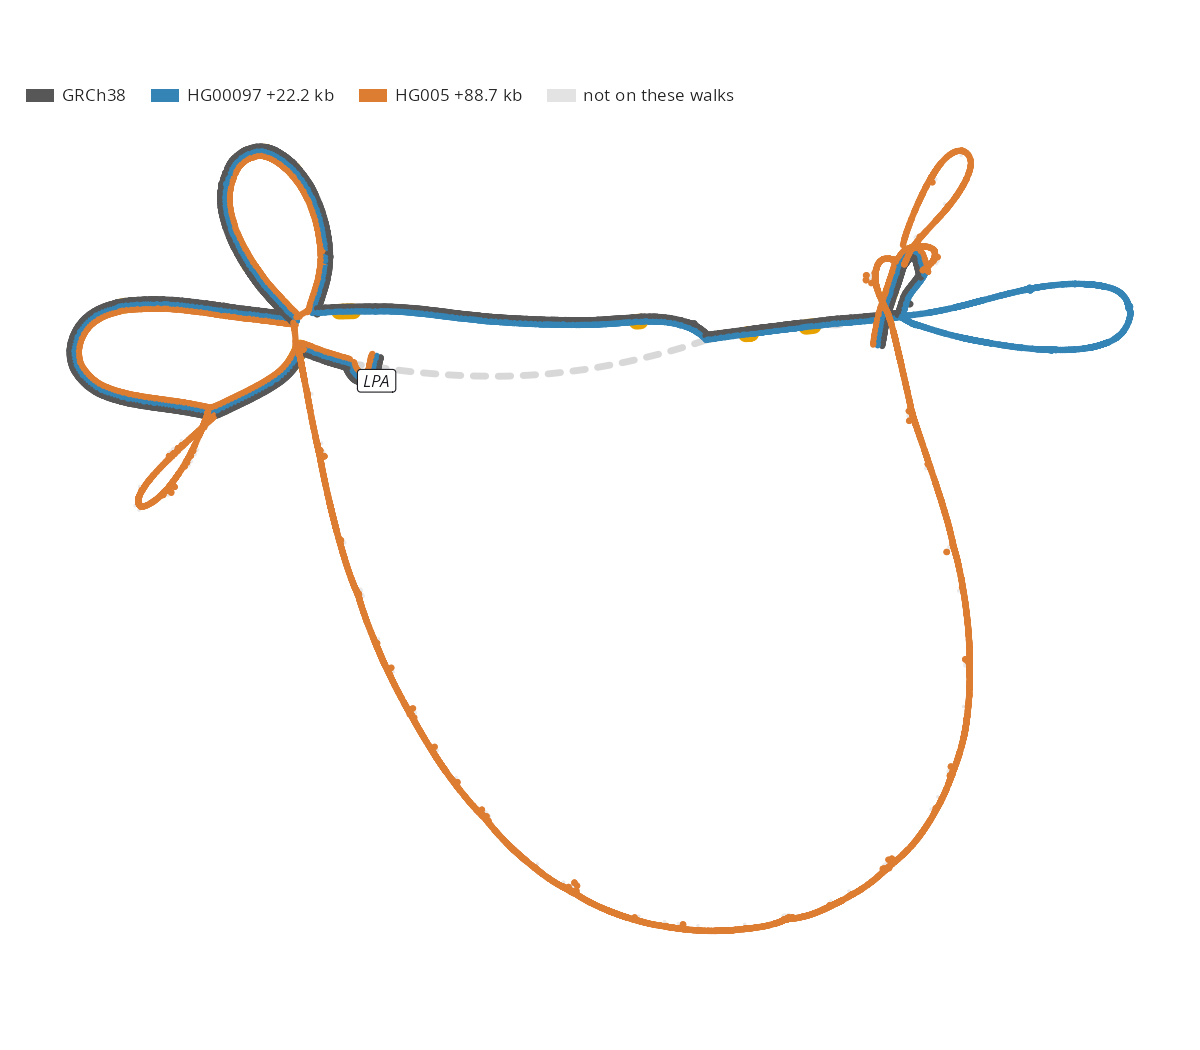
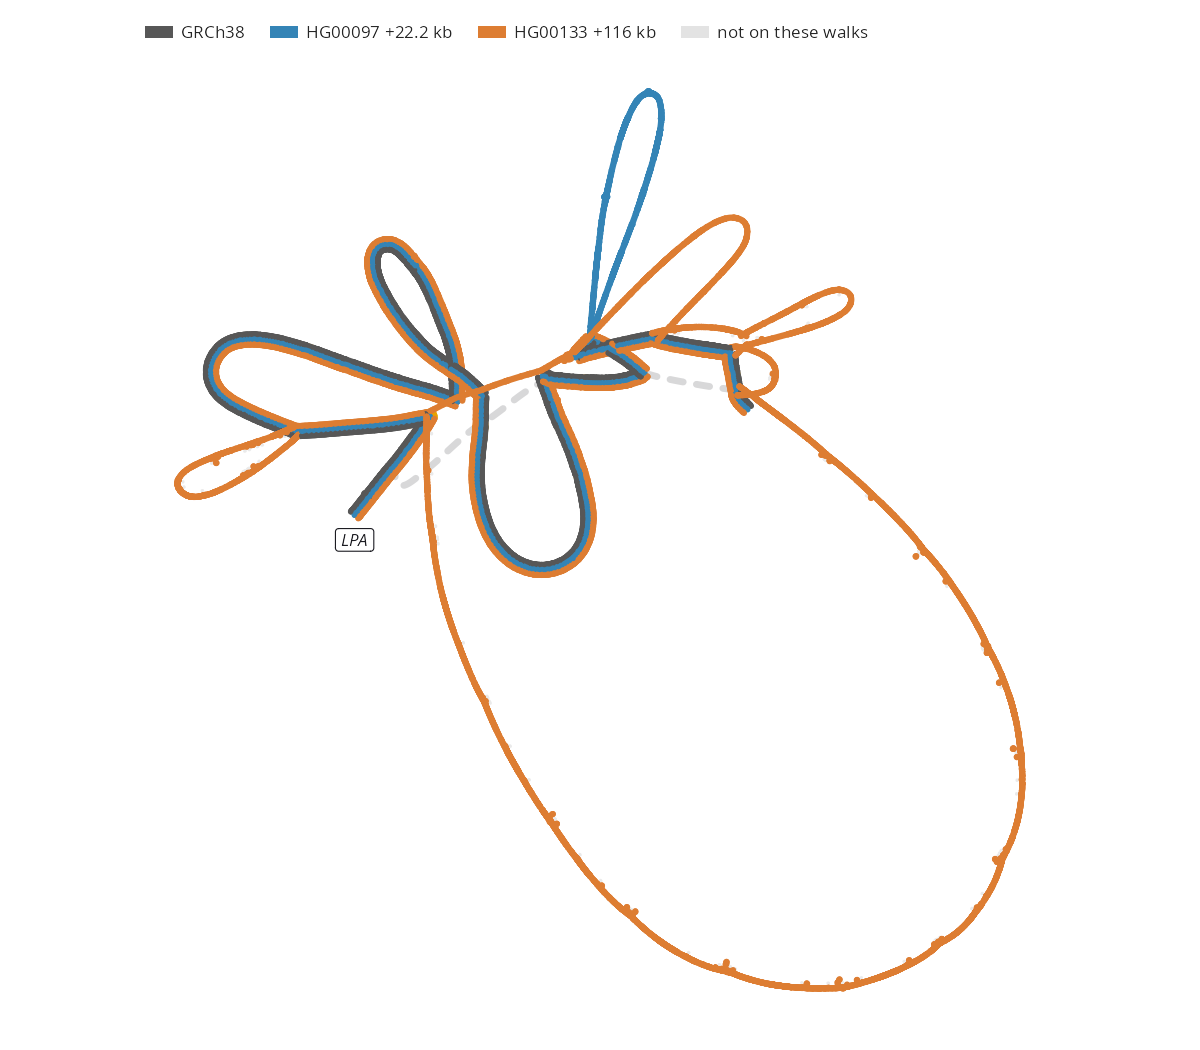
Overlay HG00133#1 at KIV-2, the walk BandageJS overlays there
With abridged walks read in full, HG00133#1 runs its 116 kb of extra
copies again, so the figure takes it back from HG005#1.

diff --git a/README.md b/README.md
@@ -74,7 +74,7 @@ ggplot(g) +
 <!-- gallery -->
 <table>
 <tr><td width="50%"><b><a href="docs/gallery.md#kiv-2-against-a-straight-grch38-backbone-with-lpas-exons">KIV-2 against a straight GRCh38 backbone, with LPA's exons</a></b><br><code>chr6:160,616,004-160,646,753</code><br><img src="gallery/kiv2_stress.png" alt="Stress layout of the KIV-2 array from the hosted index: GRCh38 drawn straight and coloured by position, LPA's exons outlined in orange, non-reference nodes in grey hanging below, and dashed arches where haplotypes skip reference sequence" width="100%"></td><td width="50%"><b><a href="docs/gallery.md#lpas-kiv-2-repeat-a-panel-per-walk">LPA's KIV-2 repeat, a panel per walk</a></b><br><code>chr6:160,616,004-160,646,753</code><br><img src="gallery/kiv2_walks.png" alt="Force-directed layout of the KIV-2 array cut from the walk file for HG00097, GRCh38 and HG00097 each lifted in a separate panel and shaded yellow to red along its length: HG00097 walks one 22 kb loop that GRCh38 skips, and the panel titles give HG00097 55 kb and GRCh38 32.8 kb, each span the region plus 1 kb of flank either side" width="100%"></td></tr>
-<tr><td width="50%"><b><a href="docs/gallery.md#three-kiv-2-haplotypes-overlaid">Three KIV-2 haplotypes overlaid</a></b><br><code>chr6:160,616,004-160,646,753</code><br><img src="gallery/kiv2_overlay.png" alt="Force-directed KIV-2 array with three walks lifted together, one flat colour each, side by side where they share nodes: GRCh38 in charcoal, HG00097#1 in blue, 22.2 kb longer, and HG005#1 in orange, 88.7 kb longer. HG00097#1 alone runs a small loop at the right, and only HG005#1 runs the large loop below" width="100%"></td><td width="50%"><b><a href="docs/gallery.md#cfhr3-and-cfhr1-deleted-in-one-of-three-walks">CFHR3 and CFHR1 deleted in one of three walks</a></b><br><code>chr1:196,640,001-196,900,000</code><br><img src="gallery/cfh_overlay.png" alt="Force-directed CFH locus with three walks lifted together: GRCh38 in charcoal and HG00097#1 in blue run the loop through CFHR3 and CFHR1, and HG02055#1 in orange, 84.5 kb shorter, takes the dashed deletion edge under it" width="100%"></td></tr>
+<tr><td width="50%"><b><a href="docs/gallery.md#three-kiv-2-haplotypes-overlaid">Three KIV-2 haplotypes overlaid</a></b><br><code>chr6:160,616,004-160,646,753</code><br><img src="gallery/kiv2_overlay.png" alt="Force-directed KIV-2 array with three walks lifted together, one flat colour each, side by side where they share nodes: GRCh38 in charcoal, HG00097#1 in blue, 22.2 kb longer, and HG00133#1 in orange, 116 kb longer. HG00097#1 alone runs a small loop at the right, and only HG00133#1 runs the large loop below" width="100%"></td><td width="50%"><b><a href="docs/gallery.md#cfhr3-and-cfhr1-deleted-in-one-of-three-walks">CFHR3 and CFHR1 deleted in one of three walks</a></b><br><code>chr1:196,640,001-196,900,000</code><br><img src="gallery/cfh_overlay.png" alt="Force-directed CFH locus with three walks lifted together: GRCh38 in charcoal and HG00097#1 in blue run the loop through CFHR3 and CFHR1, and HG02055#1 in orange, 84.5 kb shorter, takes the dashed deletion edge under it" width="100%"></td></tr>
 <tr><td width="50%"><b><a href="docs/gallery.md#kiv-2-copy-number-as-walk-rows">KIV-2 copy number as walk rows</a></b><br><code>chr6:160,616,004-160,646,753</code><br><img src="gallery/kiv2_rows.png" alt="Walk rows at KIV-2 on a bp-from-flank axis: between the flanking reference nodes GRCh38 spans 31 kb and HG00133#2 164 kb, and the extra copies, on non-reference nodes, fall into three blocks: A, 68 kb walked by HG02055#1 and HG00133#2; B, 22 kb walked by four haplotypes; and C, 5.5 kb walked by two" width="100%"></td><td width="50%"><b><a href="docs/gallery.md#amylase-copy-number-in-twelve-haplotypes">Amylase copy number in twelve haplotypes</a></b><br><code>chr1:103,540,000-103,780,000</code><br><img src="gallery/amylase_rows.png" alt="Walk rows over the salivary amylase genes, each bar coloured by the GRCh38 position it covers: the haplotypes span 146 kb to 475 kb, HG00128#1 walks the stretch near 103.72 Mb twice, so its green recurs, five haplotypes walk much of the non-reference block A twice, and HG00097#1 has a 19 kb stretch the graph lacks, drawn as an open box" width="100%"></td></tr>
 <tr><td width="50%"><b><a href="docs/gallery.md#c4a-and-c4b-in-the-stress-layout">C4A and C4B in the stress layout</a></b><br><code>chr6:31,978,000-32,040,000</code><br><img src="gallery/c4_stress.png" alt="Stress layout of the complement C4 genes in the MHC, GRCh38 drawn straight, its C4A and C4B the long forms: non-reference sequence hangs in loops below C4A and C4B, and a dashed arch from inside C4A to inside C4B skips one module of C4, CYP21A1P and TNXA" width="100%"></td><td width="50%"><b><a href="docs/gallery.md#rhd-and-cyp2d6-gene-deletions-as-arches">RHD and CYP2D6 gene deletions as arches</a></b><br><code>RHD, CYP2D6</code><br><img src="gallery/deletions.png" alt="RHD and CYP2D6 in the stress layout, one above the other, GRCh38 straight and genes named: in each, a dashed arch spans the whole gene, the route of haplotypes that skip it, and non-reference sequence hangs in grey" width="100%"></td></tr>
 <tr><td width="50%"><b><a href="docs/gallery.md#c4-as-a-syng-graph-from-impg">C4 as a syng graph from impg</a></b><br><code>chr6:31,972,047-32,055,647</code><br><img src="gallery/syng_c4.png" alt="Force-directed syng graph of C4 from 90 haplotypes: a ring coloured red to magenta along GRCh38, whose two C4 copies share its nodes, with blue specks where only the second copy goes. Under it, walk rows for three samples in the same hues: GRCh38 is one smooth gradient over 84 kb, HG02080's 51 kb haplotype carries one copy and HG01978's 116 kb haplotype three, each copy in the colours of the GRCh38 copy it continues" width="100%"></td><td width="50%"><b><a href="docs/gallery.md#c4s-herv-k-loop-in-three-syng-walks">C4's HERV-K loop in three syng walks</a></b><br><code>chr6:31,972,047-32,055,647</code><br><img src="gallery/syng_overlay.png" alt="The syng graph of C4 with three walks lifted together, one flat colour each: GRCh38 in charcoal, HG01952#1 in blue, 12.7 kb shorter, and HG01978#2 in orange, 32.7 kb longer. All three run the ring every C4 copy shares, and only HG01952#1 skips the loop at the left, the 6.5 kb HERV-K of C4's long form" width="100%"></td></tr>

diff --git a/docs/gallery.md b/docs/gallery.md
@@ -58,10 +58,10 @@ autoplot(g, ncol = 2)
 
 `chr6:160,616,004-160,646,753`
 
-![Force-directed KIV-2 array with three walks lifted together, one flat colour each, side by side where they share nodes: GRCh38 in charcoal, HG00097#1 in blue, 22.2 kb longer, and HG005#1 in orange, 88.7 kb longer. HG00097#1 alone runs a small loop at the right, and only HG005#1 runs the large loop below](../gallery/kiv2_overlay.png)
+![Force-directed KIV-2 array with three walks lifted together, one flat colour each, side by side where they share nodes: GRCh38 in charcoal, HG00097#1 in blue, 22.2 kb longer, and HG00133#1 in orange, 116 kb longer. HG00097#1 alone runs a small loop at the right, and only HG00133#1 runs the large loop below](../gallery/kiv2_overlay.png)
 
 ```r
-haps <- c("HG00097#1", "HG005#1")
+haps <- c("HG00097#1", "HG00133#1")
 g <- bandage_layout(
   walks,
   region = kiv2, haplotypes = haps, walks = c("GRCh38", haps), genes = genes
